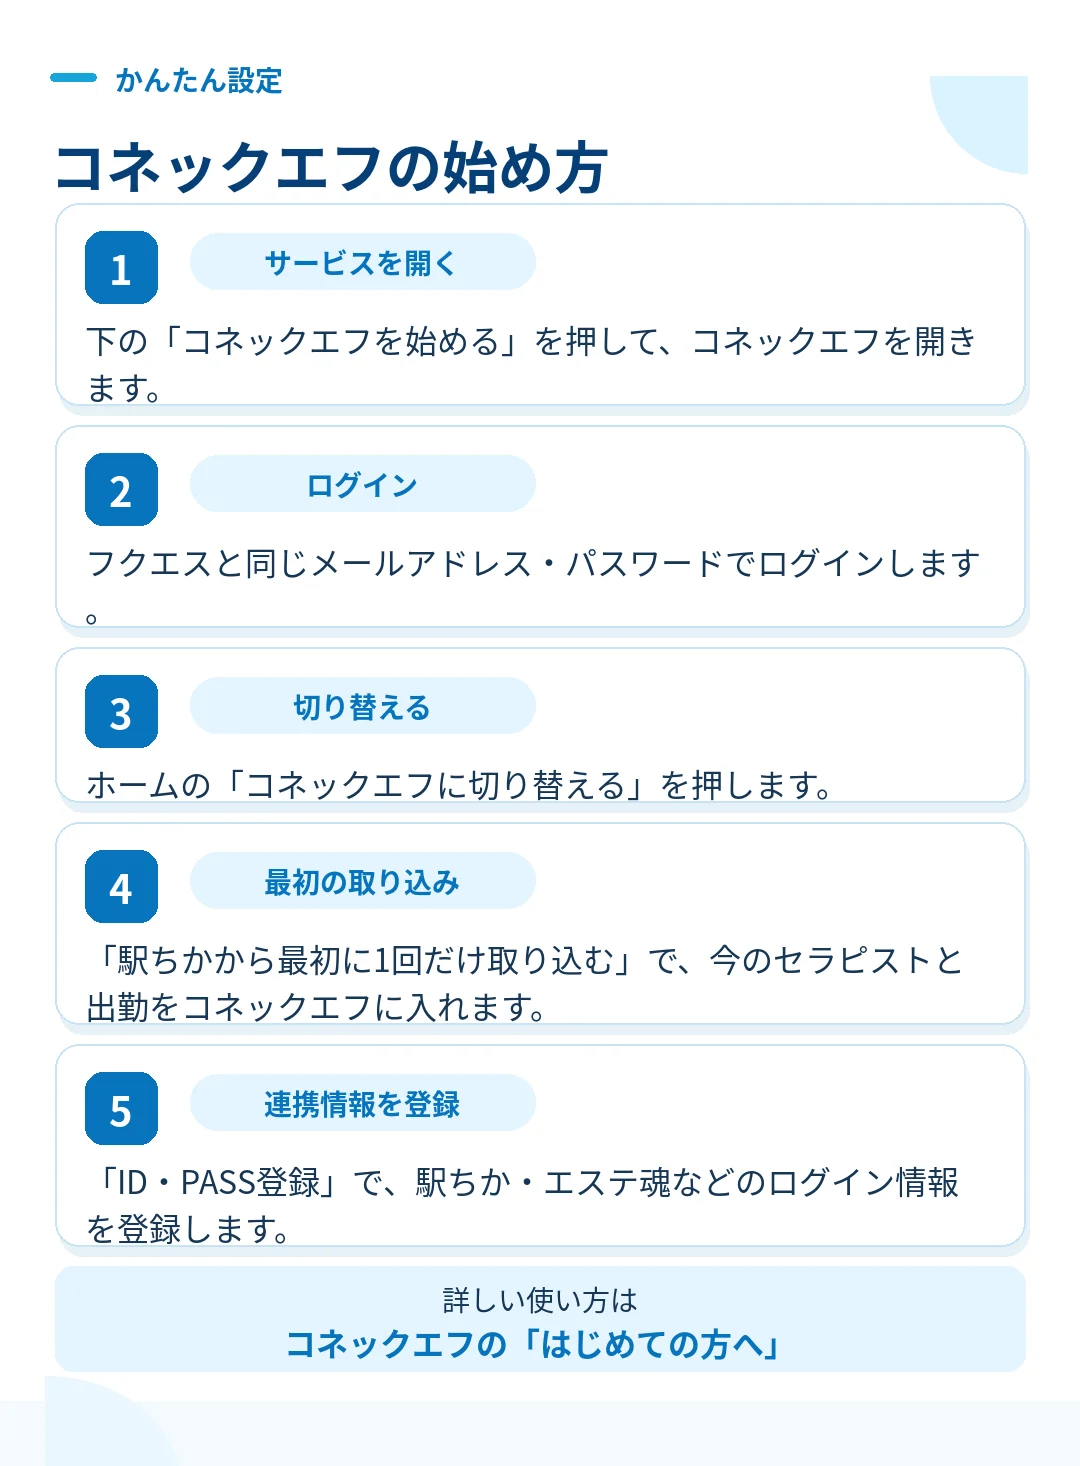
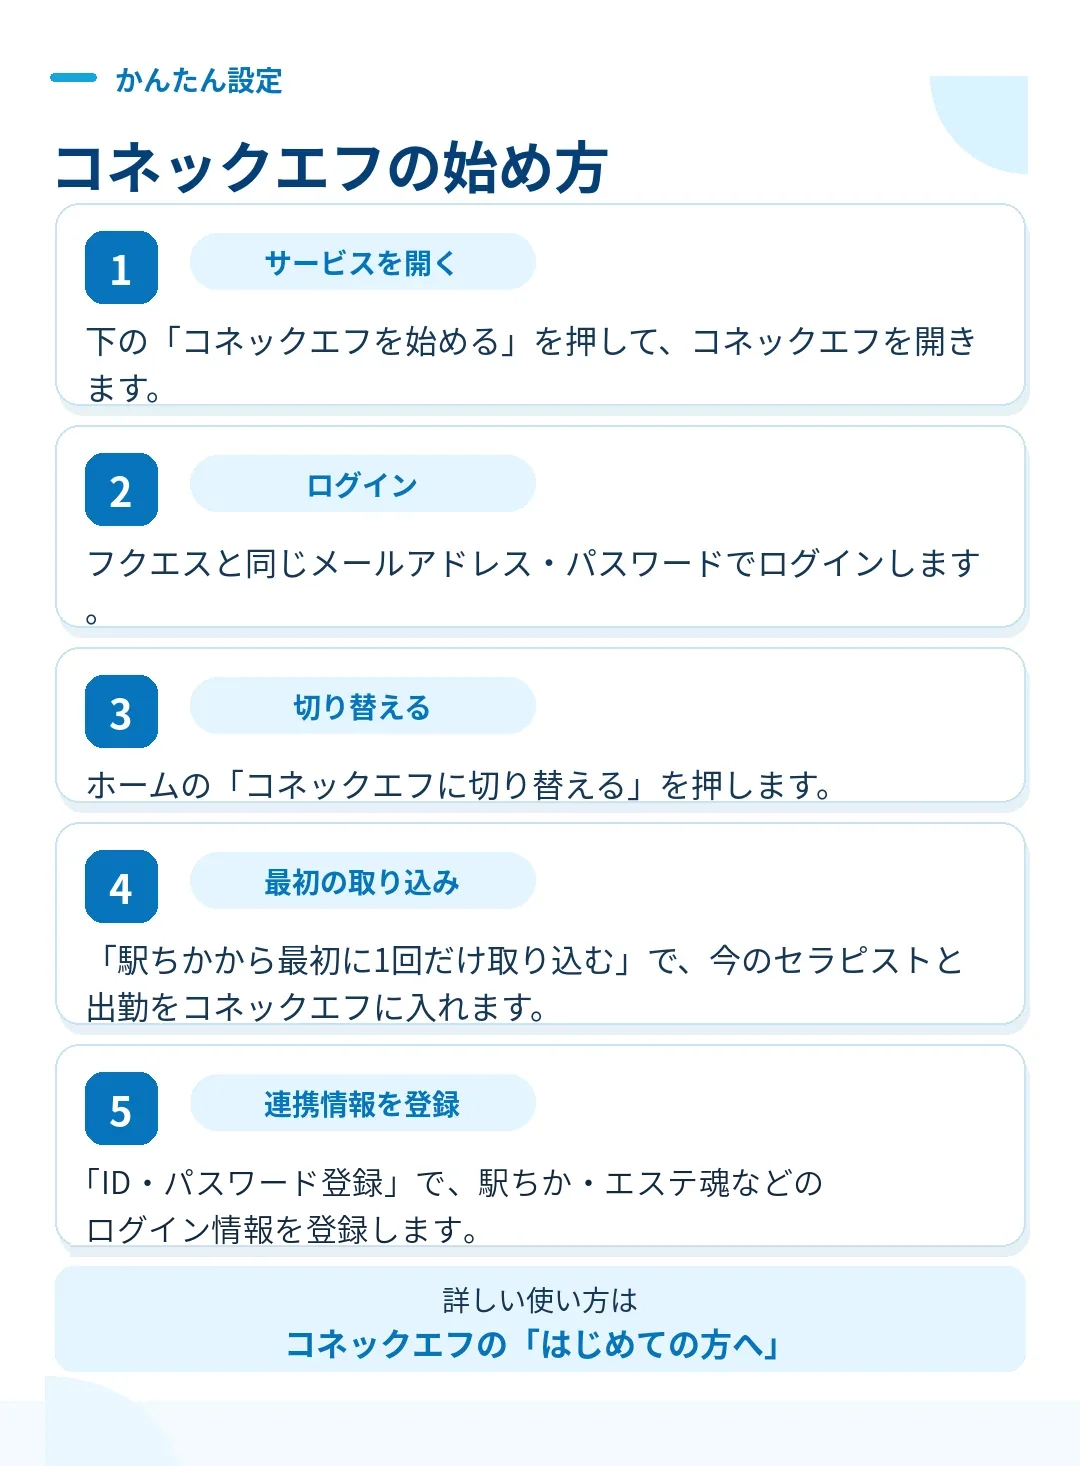
第800便: /mypage/conecf「始め方」画像（PC・スマホ）の「ID・PASS登録」→「ID・パスワード登録」・alt も合わせた
Claude-Session: https://claude.ai/code/session_0174YgrproqTKm3vRqntgdiC

Changed region(s): [[0.0611, 0.7981, 0.7944, 0.8595], [0.825, 0.7981, 0.8861, 0.8288]]

diff --git a/src/app/mypage/conecf/page.tsx b/src/app/mypage/conecf/page.tsx
@@ -31,7 +31,7 @@ const BLOCKS: ReadonlyArray<{ name: string; alt: string }> = [
   },
   {
     name: '05-conecf-start-guide',
-    alt: 'コネックエフの始め方。1、下の「コネックエフを始める」を押してコネックエフを開きます。2、フクエスと同じメールアドレス・パスワードでログインします。3、ホームの「コネックエフに切り替える」を押します。4、「駅ちかから最初に1回だけ取り込む」で今のセラピストと出勤をコネックエフに入れます。5、「ID・PASS登録」で駅ちか・エステ魂などのログイン情報を登録します。',
+    alt: 'コネックエフの始め方。1、下の「コネックエフを始める」を押してコネックエフを開きます。2、フクエスと同じメールアドレス・パスワードでログインします。3、ホームの「コネックエフに切り替える」を押します。4、「駅ちかから最初に1回だけ取り込む」で今のセラピストと出勤をコネックエフに入れます。5、「ID・パスワード登録」で駅ちか・エステ魂などのログイン情報を登録します。',
   },
 ];
 
